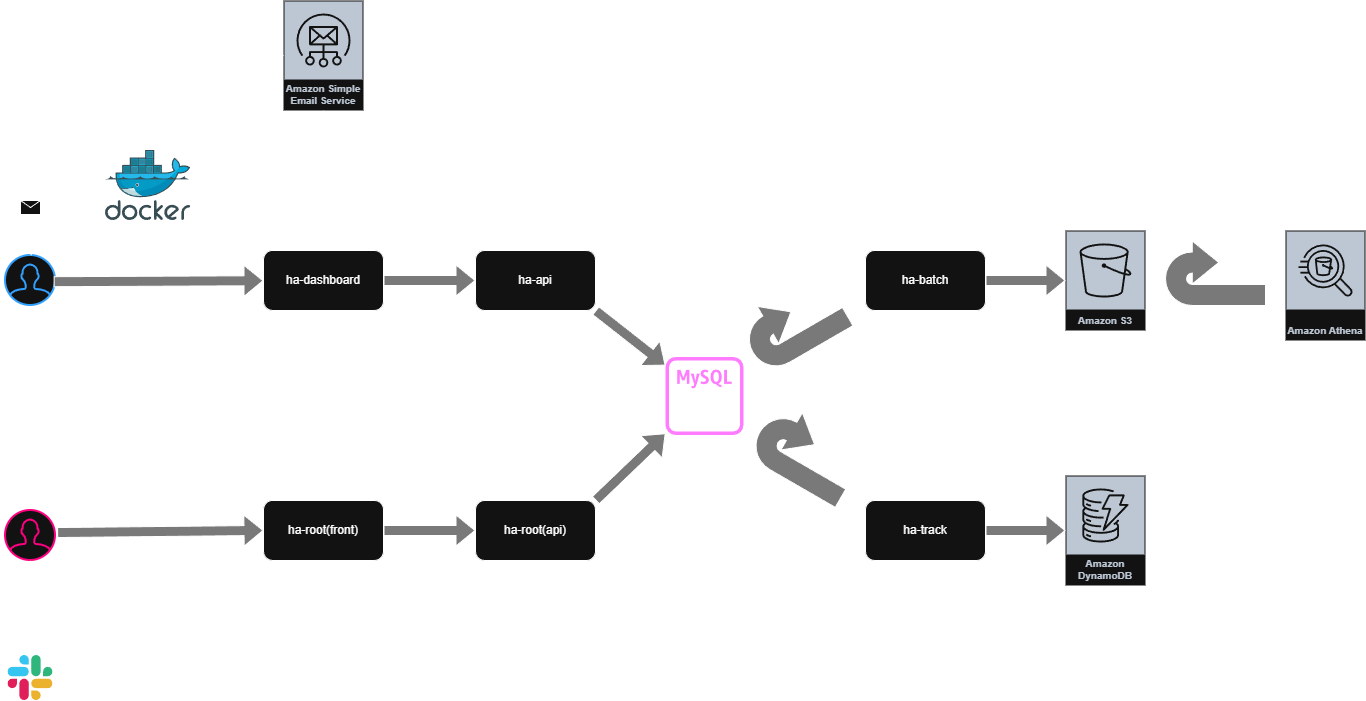
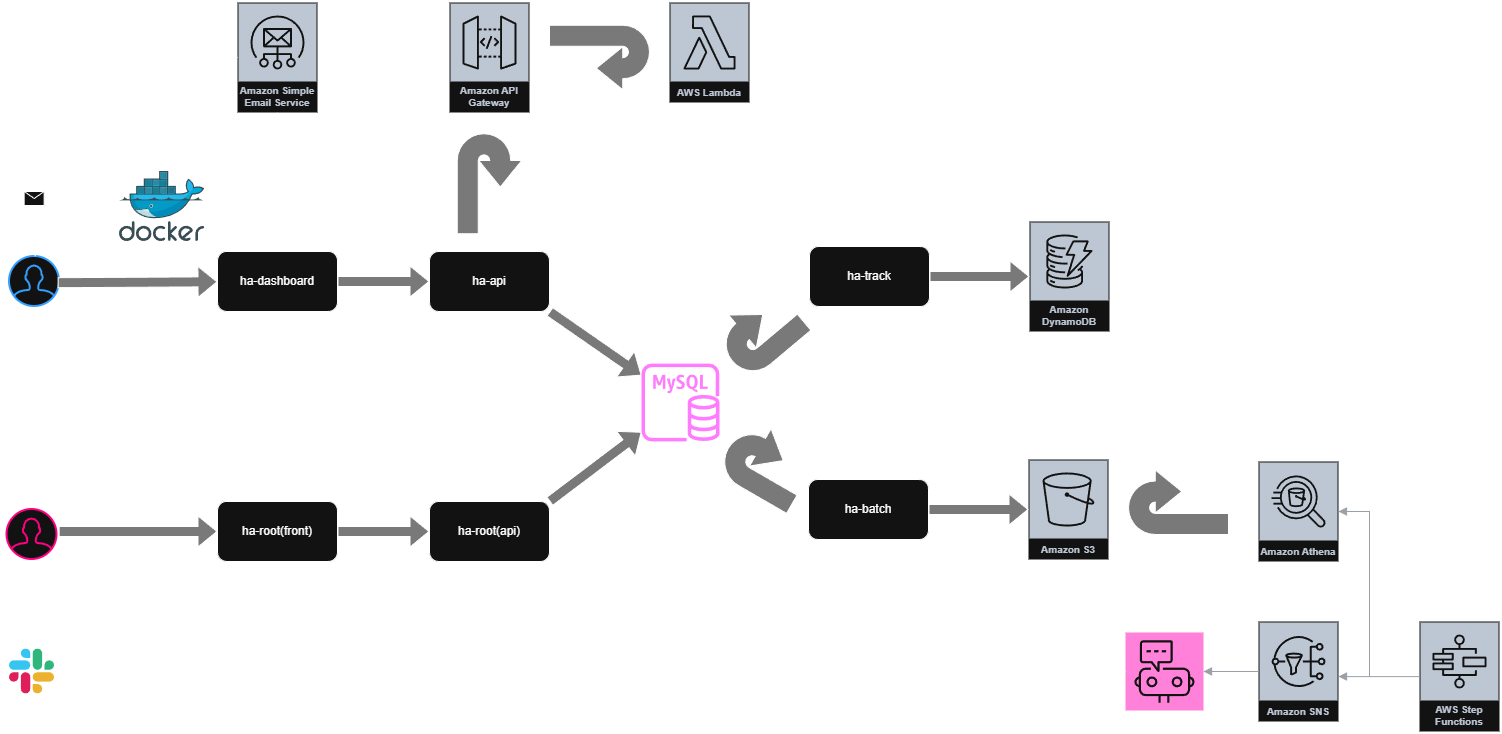
健康情報登録フローを修正

diff --git a/README.md b/README.md
@@ -5,82 +5,99 @@
 [環境構築手順](http://healthinfo-app-docs.s3-website-ap-northeast-1.amazonaws.com/wiki/localEnv)を参考にローカル環境構築を行う  
 
  
-### **環境図**
+### 健康情報登録フロー
 ![image](https://github.com/kohei-okazaki/work-3g/issues/423#issuecomment-3419791708)  
-
 
 ## 02_Project構成  
 * ### ha-api  
-JSONでのHTTP通信を受け付けるプロジェクト   
-
-* ### ha-asset  
-詳細設計書、DDL等を定義したドキュメントプロジェクト  
-
-* ### ha-batch  
-Batch処理を定義したプロジェクト  
-
-* ### ha-build  
-ローカル環境でJarやEC2環境にデプロイするWarを作成するプロジェクト  
-windows, linuxでそれぞれbatとshを用意  
-
-* ### ha-business  
-以下のプロジェクトで共通的に使うbusinessロジックをまとめたプロジェクト  
-| プロジェクト名 |
-| :---- |
-| api |
-| batch |
-| dashboard |
-| root |
-
-* ### ha-common  
-以下のMavenプロジェクトで共通的に使う共通処理を定義したプロジェクト  
-| プロジェクト名 |
-| :---- |
-| api |
-| batch |
-| business |
-| dashboard |
-| db |
-| root |
+健康管理のAPI。  
+ - Java21
+ - SpringBoot
 
 * ### ha-dashboard  
-健康管理のダッシュボードプロジェクト  
+健康管理のダッシュボード。   
+ - Java21
+ - SpringBoot
+ - thymeleaf
 
-* ### ha-db  
-以下のMavenプロジェクトで共通的に使うTableに対応したEntityとMapperのみを定義したプロジェクト  
-環境へのDB反映は本プロジェクトよりFlywayで行う  
-| プロジェクト名 |
-| :---- |
-| api |
-| batch |
-| business |
-| dashboard |
-| root |
-
-* ### ha-docs  
-健康管理アプリのドキュメントプロジェクト  
-
-* ### ha-node  
-健康情報計算を行うAPIプロジェクト(JavaScriptのNode.jsで実装) 
-
-* ### ha-pom  
-以下のプロジェクトで共通的に使う外部ライブラリを定義したpomプロジェクト
-| プロジェクト名 |
-| :---- |
-| api |
-| batch |
-| business |
-| common |
-| dashboard |
-| db |
-| root |
-| tool |
+* ### ha-batch  
+健康管理のBatch処理。   
+ - Java21
+ - SpringBatch
 
 * ### ha-root  
-健康管理アプリの管理者用サイト    
+健康管理アプリの管理者用サイト。   
+ - Java21
+ - SpringBoot API
+ - Vue.js
+
+* ### ha-business  
+以下のプロジェクトで共通的に使うbusinessロジックを定義。  
+| プロジェクト名 |
+| :---- |
+| ha-api |
+| ha-batch |
+| ha-dashboard |
+| ha-root |
+
+* ### ha-db  
+以下のMavenプロジェクトで共通的に使うTableに対応したEntityとMapperのみを定義。  
+環境へのDB反映は本プロジェクトよりFlywayで行う。  
+| プロジェクト名 |
+| :---- |
+| ha-api |
+| ha-batch |
+| ha-business |
+| ha-dashboard |
+| ha-root |
+
+* ### ha-common  
+以下のMavenプロジェクトで共通的に使う共通処理を定義。  
+| プロジェクト名 |
+| :---- |
+| ha-api |
+| ha-batch |
+| ha-business |
+| ha-dashboard |
+| ha-db |
+| ha-root |
+
+* ### ha-tool  
+指定のフォーマットのExcelからDDL/DMLを自動生成するツールプロジェクト  
+
+* ### ha-pom  
+以下のプロジェクトで共通的に使う外部ライブラリを定義したpomプロジェクト。
+| プロジェクト名 |
+| :---- |
+| ha-api |
+| ha-batch |
+| ha-business |
+| ha-common |
+| ha-dashboard |
+| ha-db |
+| ha-root |
+| ha-tool |
+
+* ### ha-track  
+健康情報蓄積用プロジェクト。  
+ - Python
+ - Django rest framework
+
+* ### ha-node  
+健康情報計算を行うAPIプロジェクト。  
+ - Java Script
+ - Node.js
+ -> API Gateway + Lambda化したためNode.jsのサーバ自体は廃止。  
 
 * ### ha-selenium  
 seleniumを利用した画面の自動テスト処理を定義したプロジェクト  
 
-* ### ha-tool  
-指定のフォーマットのExcelからDDLなどを自動生成するツールプロジェクト  
+* ### ha-build  
+Docker環境でのBuild用のスクリプトを定義。   
+
+* ### ha-docs  
+健康管理アプリのドキュメントプロジェクト。  
+
+* ### ha-asset  
+詳細設計書、DDL等を定義したドキュメントプロジェクト。  
+
